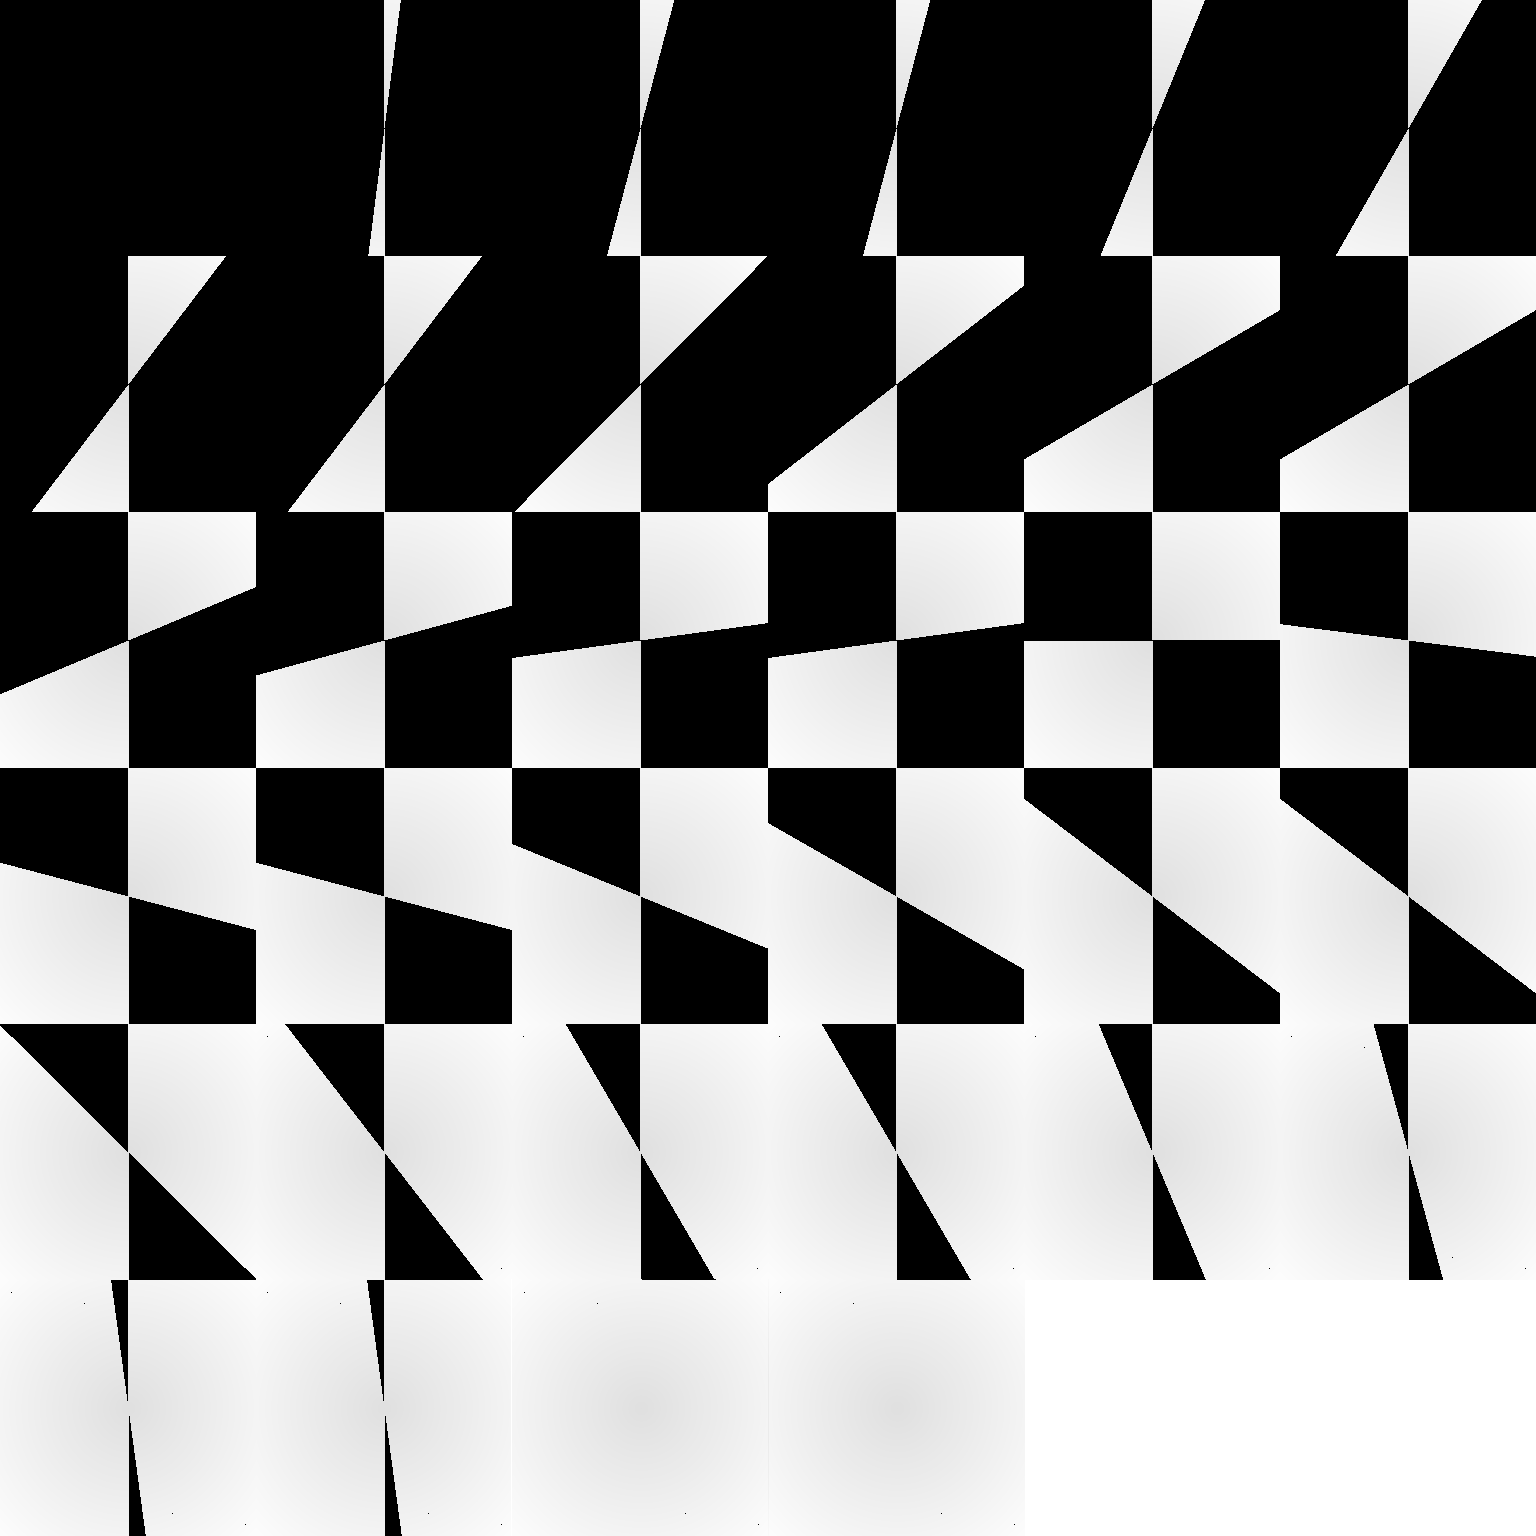
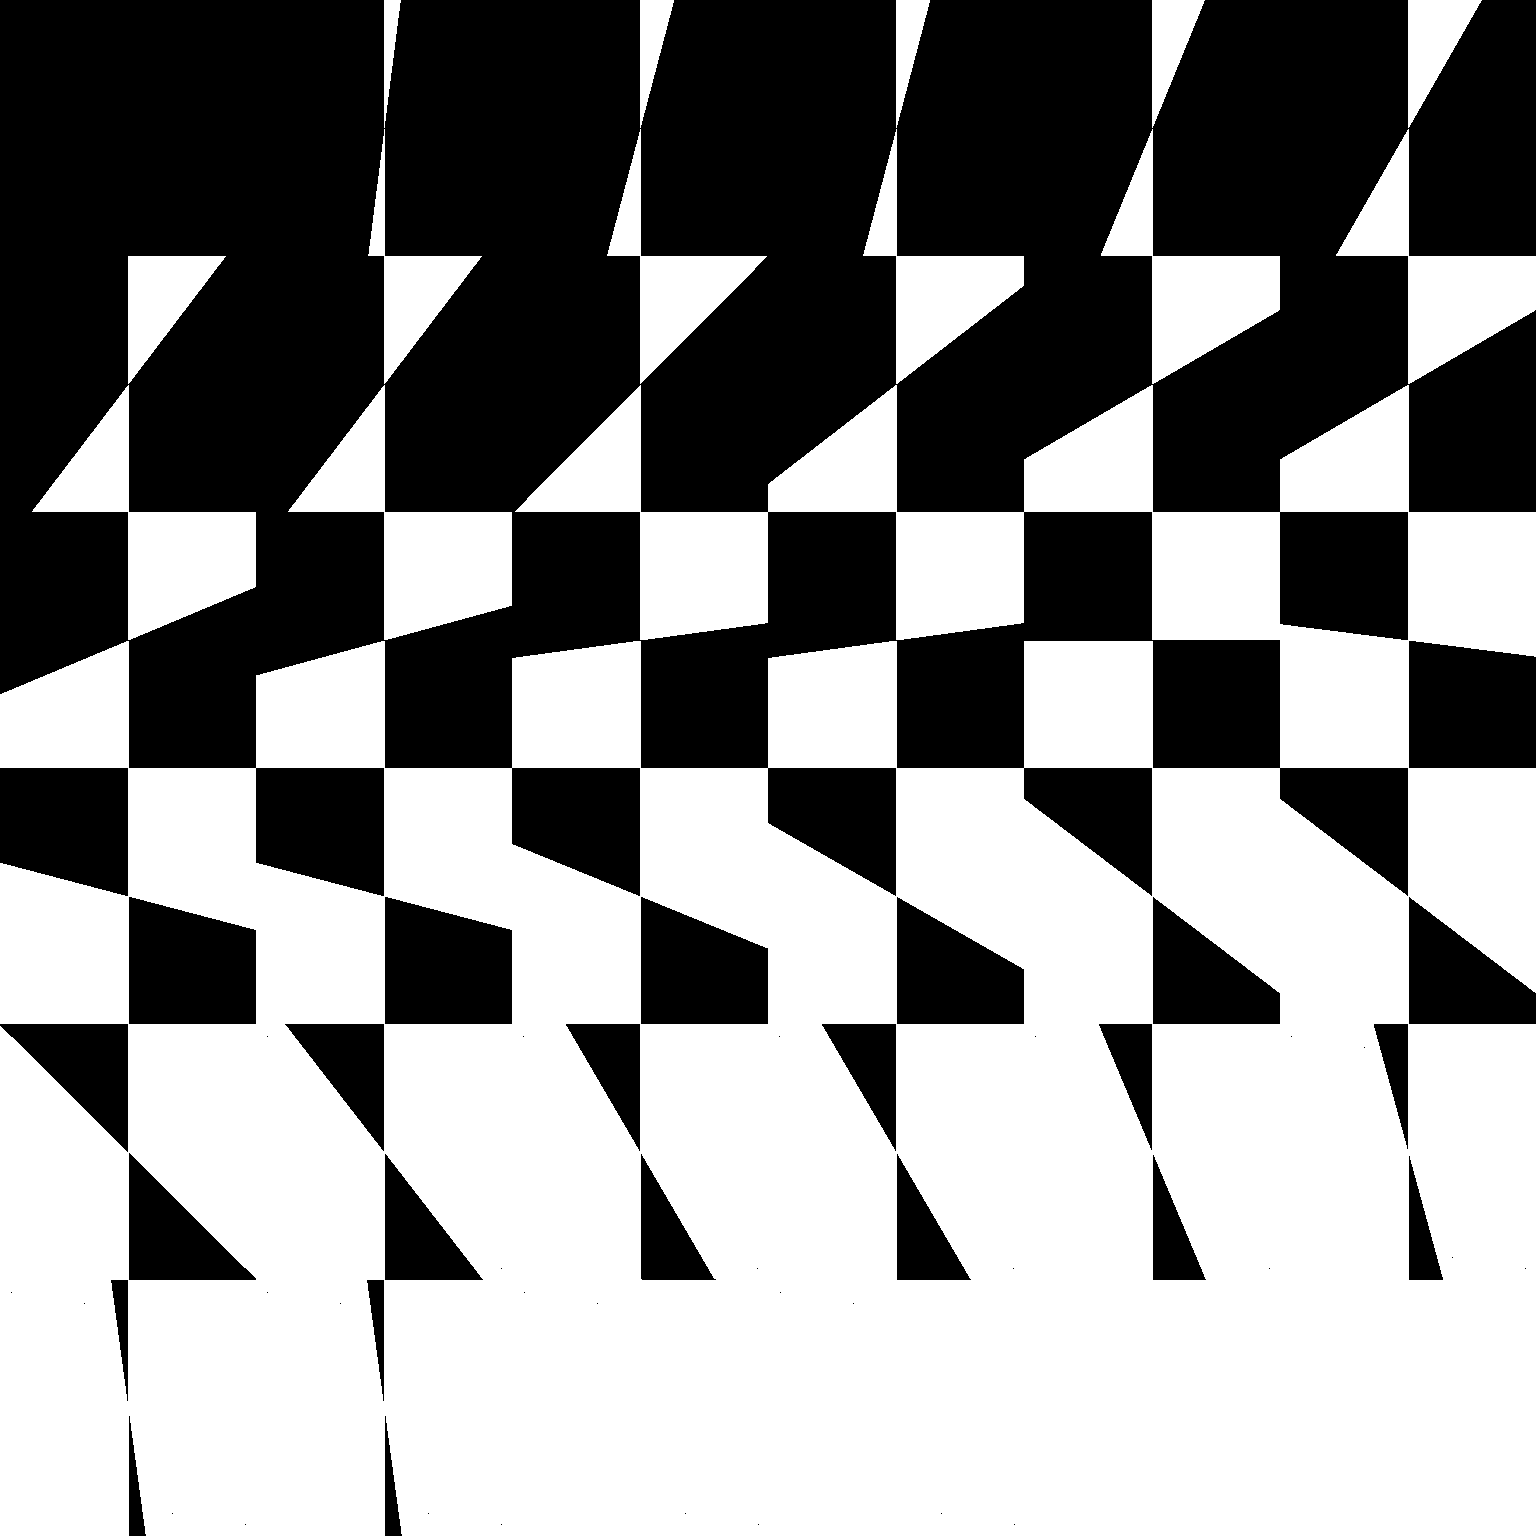
fade修正

diff --git a/Solution/App/Scene.cpp b/Solution/App/Scene.cpp
@@ -20,15 +20,12 @@ void Scene::drawFadeIn( ) const {
 	ApplicationPtr app = Application::getInstance( );
 	const int WIDTH = app->getWindowWidth( );
 	const int HEIGHT = app->getWindowHeight( );	
-	const int idx = _fade_in_count / ANIME_FLAME;
+	int idx = _fade_in_count / ANIME_FLAME;
+	if ( idx > 32 ) {
+		idx = 32;
+	}
 	int tx = idx % 6;
 	int ty = idx / 6;
-	if ( idx >= 32 ) {
-		ty = 5;
-		if ( tx > 2 ) {
-			tx = 2;
-		}
-	}
 	DrawerPtr drawer = Drawer::getTask( );
 	Drawer::Sprite sprite( Drawer::Transform( 0, 0, tx * FADE_SIZE, ty * FADE_SIZE, FADE_SIZE, FADE_SIZE, WIDTH, HEIGHT ), GRAPH_FADE );
 	drawer->setSprite( sprite );
@@ -38,15 +35,12 @@ void Scene::drawFadeOut( ) const {
 	ApplicationPtr app = Application::getInstance( );
 	const int WIDTH = app->getWindowWidth( );
 	const int HEIGHT = app->getWindowHeight( );
-	const int idx = _fade_out_count / ANIME_FLAME;
+	int idx = _fade_out_count / ANIME_FLAME;
+	if ( idx > 32 ) {
+		idx = 32;
+	}
 	int tx = idx % 6;
 	int ty = idx / 6;
-	if ( idx >= 32 ) {
-		ty = 5;
-		if ( tx > 2 ) {
-			tx = 2;
-		}
-	}
 	DrawerPtr drawer = Drawer::getTask( );
 	Drawer::Sprite sprite( Drawer::Transform( 0, 0, tx * FADE_SIZE, ty * FADE_SIZE, FADE_SIZE, FADE_SIZE, WIDTH, HEIGHT ), GRAPH_FADE );
 	drawer->setSprite( sprite );

diff --git a/Solution/App/SceneSelect.cpp b/Solution/App/SceneSelect.cpp
@@ -253,15 +253,12 @@ void SceneSelect::drawCircle( ) const {
 	const int HEIGHT = app->getWindowHeight( );
 	
 	const int CIRCLE_SIZE = 100;
-	const int idx = _choice_count / CIRCLE_ANIME_FLAME;
+	int idx = _choice_count / CIRCLE_ANIME_FLAME;
+	if ( idx > 25 ) {
+		idx = 25;
+	}
 	int tx = idx % 4;
 	int ty = idx / 4;
-	if ( ty > 6 ) {
-		ty = 6;
-		if ( tx > 1 ) {
-			tx = 1;
-		}
-	}
 	DrawerPtr drawer = Drawer::getTask( );
 	Drawer::Sprite sprite( Drawer::Transform( WIDTH / 2 - CIRCLE_SIZE / 2, HEIGHT / 2 - CIRCLE_SIZE / 2, tx * CIRCLE_SIZE, ty * CIRCLE_SIZE, CIRCLE_SIZE, CIRCLE_SIZE ), GRAPH_CIRCLE );
 	drawer->setSprite( sprite );

diff --git a/Solution/App/Scene.h b/Solution/App/Scene.h
@@ -15,8 +15,9 @@ public:
 	Scene( );
 	virtual ~Scene( );
 	virtual NEXT update( ) = 0;
-	virtual void drawFadeIn( ) const;
-	virtual void drawFadeOut( ) const;
+protected:
+	void drawFadeIn( ) const;
+	void drawFadeOut( ) const;
 	void addFadeInCount( );
 	void subFadeOutCount( );
 	int getFadeInCount( ) const;

diff --git a/Solution/Common/define.h b/Solution/Common/define.h
@@ -74,6 +74,7 @@ enum GRAPH {
 	GRAPH_MAP,
 	GRAPH_CIRCLE,
 	GRAPH_FADE,
+	GRAPH_FADE_BG,
 	GRAPH_STAGE_SELECT,
 	GRAPH_NUM_1,
 	GRAPH_NUM_2,
